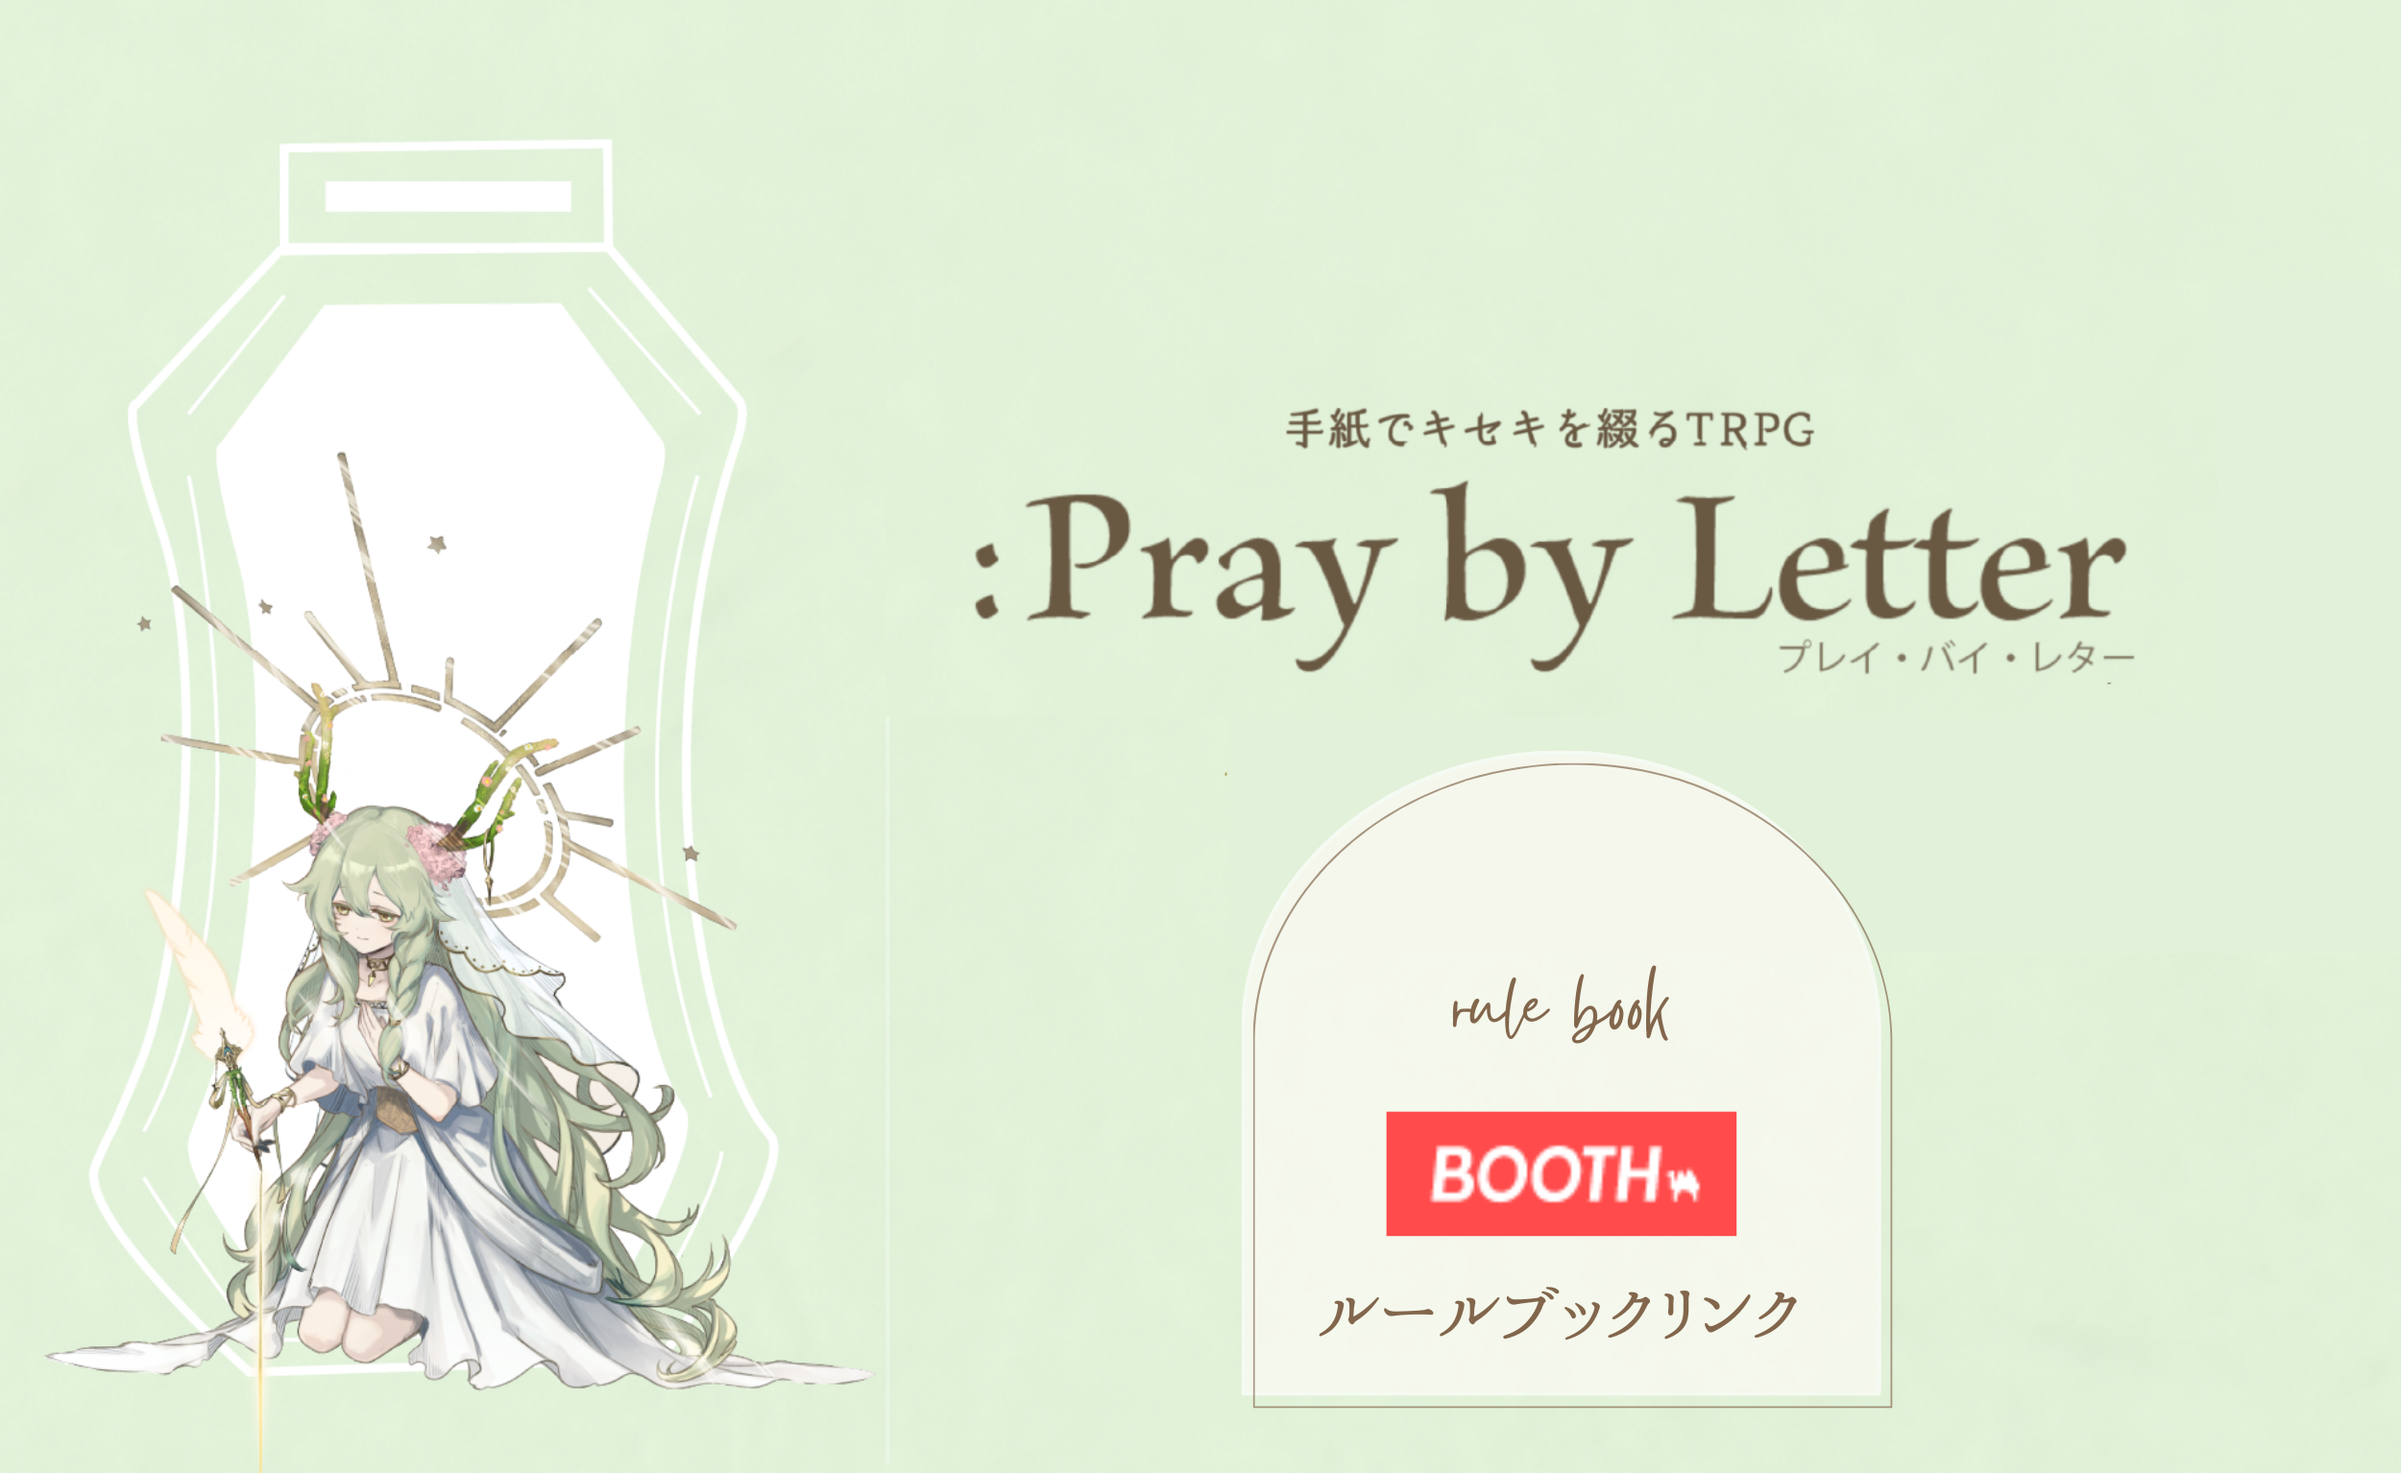
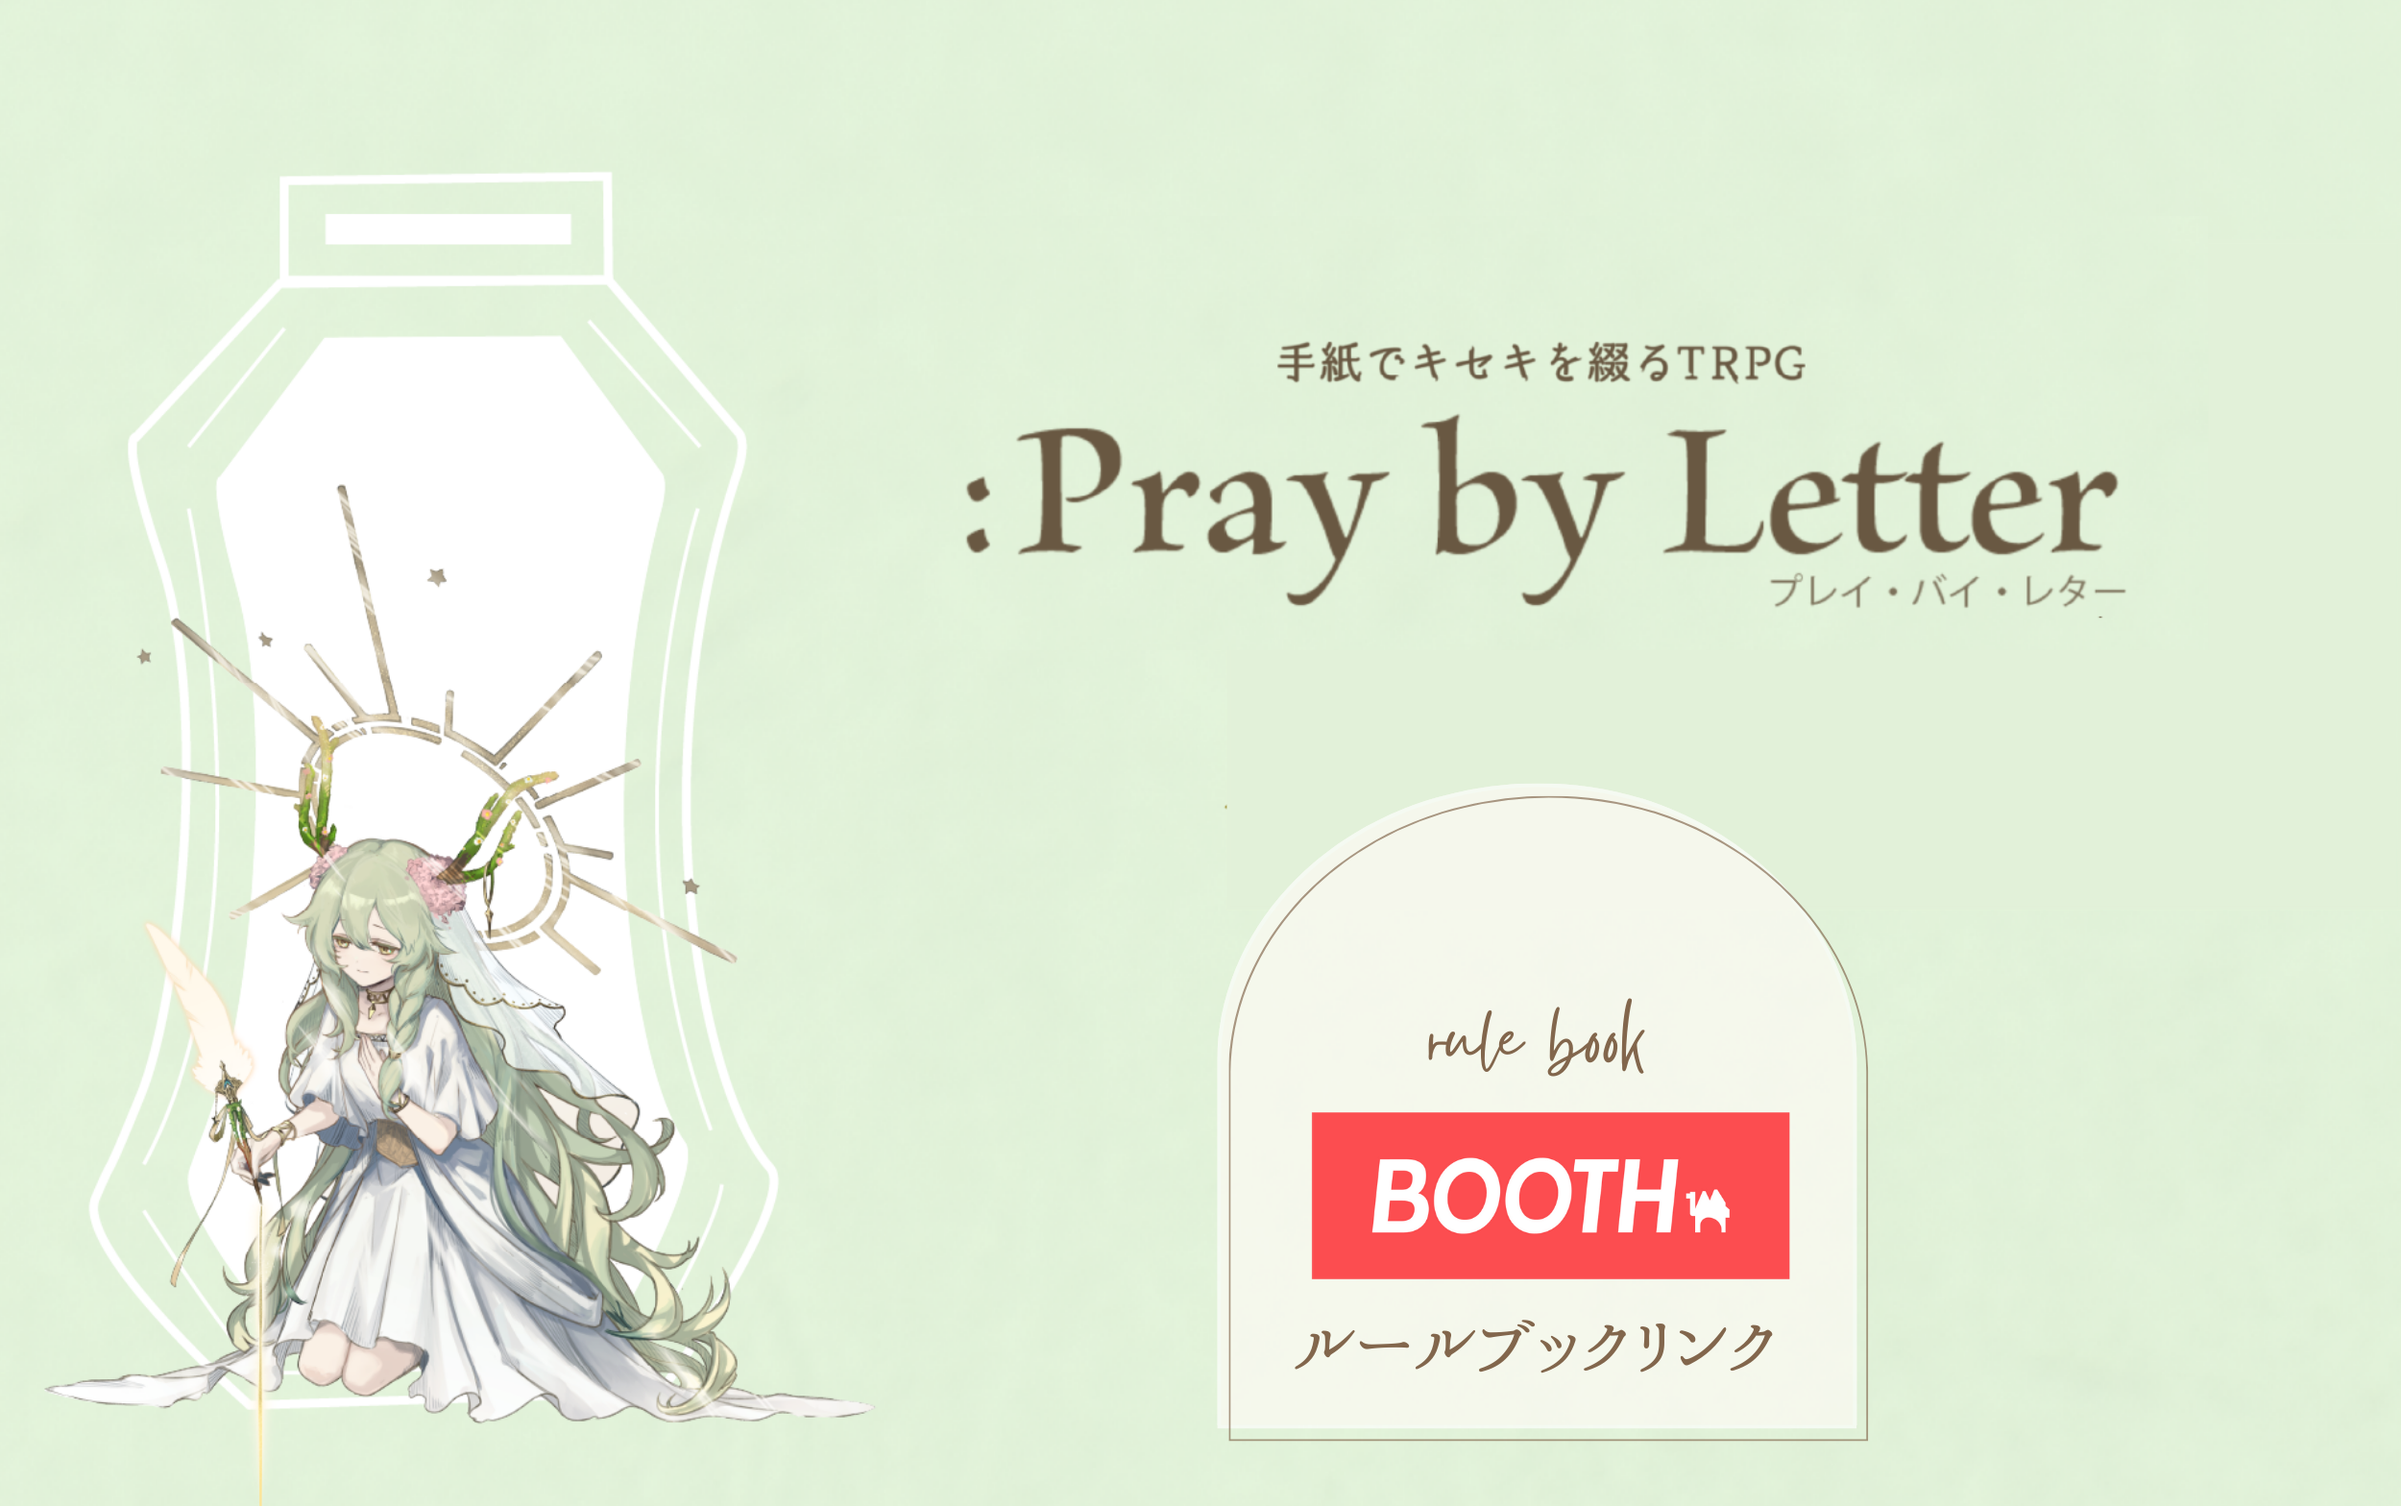
リンクをpositionで位置設定

diff --git a/styles/style.css b/styles/style.css
@@ -1,146 +1,160 @@
-                              html {
-                                  font-size: 10px;
-                                  font-family: 'Playfair Display', serif;
-                              }
-                              
-                              li {
-                                  list-style: none;
-                              }
-                              
-                              a {
-                                  color: #82664C;
-                                  text-decoration: none;
-                              }
-                              
-                              .main-body {
-                                  background-color: #E2F1D9;
-                                  display: flex;
-                                  align-content: baseline;
-                                  align-items: center;
-                                  flex-direction: row;
-                                  justify-content: flex-start;
-                                  width: auto;
-                                  height: 55vw;
-                              }
-                              
-                              .botol {
-                                  background-color: #E2F1D9;
-                                  display: flex;
-                                  align-content: center;
-                                  justify-content: flex-start;
-                                  width: auto;
-                                  height: 50vw;
-                              }
-                              
-                              .body-left {
-                                  display: flex;
-                                  flex-direction: column;
-                                  justify-content: stretch;
-                                  align-items: flex-start;
-                                  height: 10vw;
-                              }
-                              
-                              .link {
-                                  font-size: 50px;
-                                  line-height: auto;
-                                  letter-spacing: px;
-                              }
-                              
-                              . .header {
-                                  background-color: #FFFBF6;
-                                  color: #82664C;
-                                  height: 110px;
-                              }
-                              
-                              .header-logo {
-                                  display: flex;
-                                  flex-direction: row;
-                                  justify-content: flex-start;
-                                  width: auto;
-                                  height: 100px;
-                              }
-                              
-                              .header-logo:hover {
-                                  opacity: 0.6;
-                                  transition: 0.8s;
-                              }
-                              
-                              .header-list li {
-                                  display: flex;
-                                  flex-direction: row;
-                                  justify-content: flex-start;
-                                  color: #82664C;
-                                  font-size: 2.5vw;
-                                  padding: 2rem;
-                              }
-                              
-                              .header-list li:hover {
-                                  opacity: 0.6;
-                                  transition: 0.8s;
-                              }
-                              
-                              p,
-                              li {
-                                  font-size: 16px;
-                                  line-height: auto;
-                                  letter-spacing: px;
-                              }
-                              
-                              input {
-                                  float: center;
-                                  font-size: 20px;
-                                  margin: 0 auto;
-                                  color: #090501;
-                              }
-                              /* 画面幅の100%の幅で画像を表示 */
-                              
-                              .main-images {
-                                  width: 100%;
-                              }
-                              
-                              html {
-                                  background-color: #FFFBF6;
-                              }
-                              
-                              footer {
-                                  width: 100%;
-                                  height: 30px;
-                                  text-align: center;
-                                  padding: 20px 0;
-                                  color: #82664C;
-                              }
-                              
-                              ul {
-                                  display: flex;
-                                  flex-direction: row;
-                                  flex-wrap: wrap;
-                              }
-                              
-                              .trailer {
-                                  width: 256px;
-                                  height: 144px;
-                              }
-                              
-                              #img-No {
-                                  color: #82664C;
-                                  font-size: 30px;
-                                  text-align: center;
-                                  line-height: auto;
-                                  letter-spacing: px;
-                              }
-                              
-                              .body-link {
-                                  display: flex;
-                                  align-content: center;
-                                  justify-content: center;
-                                  width: auto;
-                                  height: 25vw;
-                              }
-                              
-                              main {
-                                  flex: 1;
-                              }
-                              
-                              aside {
-                                  flex: 2;
-                              }
+ html {
+     font-size: 10px;
+     font-family: 'Playfair Display', serif;
+ }
+ 
+ li {
+     list-style: none;
+ }
+ 
+ a {
+     color: #82664C;
+     text-decoration: none;
+ }
+ 
+ .main-body {
+     background-color: #E2F1D9;
+     display: flex;
+     align-content: baseline;
+     align-items: center;
+     flex-direction: row;
+     justify-content: flex-start;
+     width: auto;
+     height: 55vw;
+ }
+ 
+ .botol {
+     background-color: #E2F1D9;
+     display: flex;
+     align-content: center;
+     justify-content: flex-start;
+     width: auto;
+     height: 50vw;
+ }
+ 
+ .body-left {
+     display: flex;
+     flex-direction: column;
+     justify-content: stretch;
+     align-items: flex-start;
+     height: 10vw;
+ }
+ 
+ .link {
+     font-size: 50px;
+     line-height: auto;
+     letter-spacing: px;
+ }
+ 
+ . .header {
+     background-color: #FFFBF6;
+     color: #82664C;
+     height: 110px;
+ }
+ 
+ .header-logo {
+     display: flex;
+     flex-direction: row;
+     justify-content: flex-start;
+     width: auto;
+     height: 5vw;
+ }
+ 
+ .header-logo:hover {
+     opacity: 0.6;
+     transition: 0.8s;
+ }
+ 
+ .header-list li {
+     display: flex;
+     flex-direction: row;
+     justify-content: flex-start;
+     color: #82664C;
+     font-size: 2.5vw;
+     padding: 2rem;
+ }
+ 
+ .header-list li:hover {
+     opacity: 0.6;
+     transition: 0.8s;
+ }
+ 
+ p,
+ li {
+     font-size: 16px;
+     line-height: auto;
+     letter-spacing: px;
+ }
+ 
+ input {
+     float: center;
+     font-size: 20px;
+     margin: 0 auto;
+     color: #090501;
+ }
+ /* 画面幅の100%の幅で画像を表示 */
+ 
+ .main-images {
+     width: 100%;
+     height: auto;
+ }
+ 
+ html {
+     background-color: #FFFBF6;
+ }
+ 
+ footer {
+     width: 100%;
+     height: 30px;
+     text-align: center;
+     padding: 20px 0;
+     color: #82664C;
+ }
+ 
+ ul {
+     display: flex;
+     flex-direction: row;
+     flex-wrap: wrap;
+ }
+ 
+ .trailer {
+     width: 256px;
+     height: 144px;
+ }
+ 
+ #img-No {
+     color: #82664C;
+     font-size: 30px;
+     text-align: center;
+     line-height: auto;
+     letter-spacing: px;
+ }
+ 
+ .body-link {
+     display: flex;
+     align-content: center;
+     justify-content: center;
+     width: auto;
+     height: 25vw;
+ }
+ 
+ main {
+     flex: 1;
+ }
+ 
+ aside {
+     flex: 2;
+ }
+ 
+ div {
+     position: relative;
+ }
+ 
+ .booth-link {
+     padding: 15vw;
+     display: block;
+     position: absolute;
+     bottom: 2vw;
+     right: 19vw;
+     border-radius: 50% 50% 0 0;
+ }

diff --git a/index.html b/index.html
@@ -43,6 +43,7 @@
     </header>
     <div>
         <img id="images" src="images/PBLmain.png" alt="ルールブックリンク" class="main-images">
+        <a href="https://booth.pm/ja/items/4165528" title="BOTTH" target="_blank" rel="noopenernoreferrer" class="booth-link"></a>
     </div>
     <!-- footer -->
     <footer>
